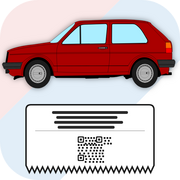
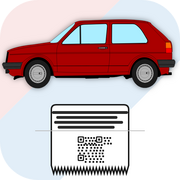
Ikonica: račun sužen na 60% širine

Changed region(s): [[0.1389, 0.5556, 0.8611, 1.0]]

diff --git a/service-worker.js b/service-worker.js
@@ -6,7 +6,7 @@
 //   - Cross-origin              -> ne dira (samo PURS-a nema više; sve je lokalno)
 //
 // Bumpuj CACHE_VERSION kad se menjaju ikonice ili kad treba obrisati stari keš.
-const CACHE_VERSION = 'v15';
+const CACHE_VERSION = 'v16';
 const CACHE_NAME = `fiskalac-${CACHE_VERSION}`;
 
 const SCOPE = new URL(self.registration.scope).pathname;
